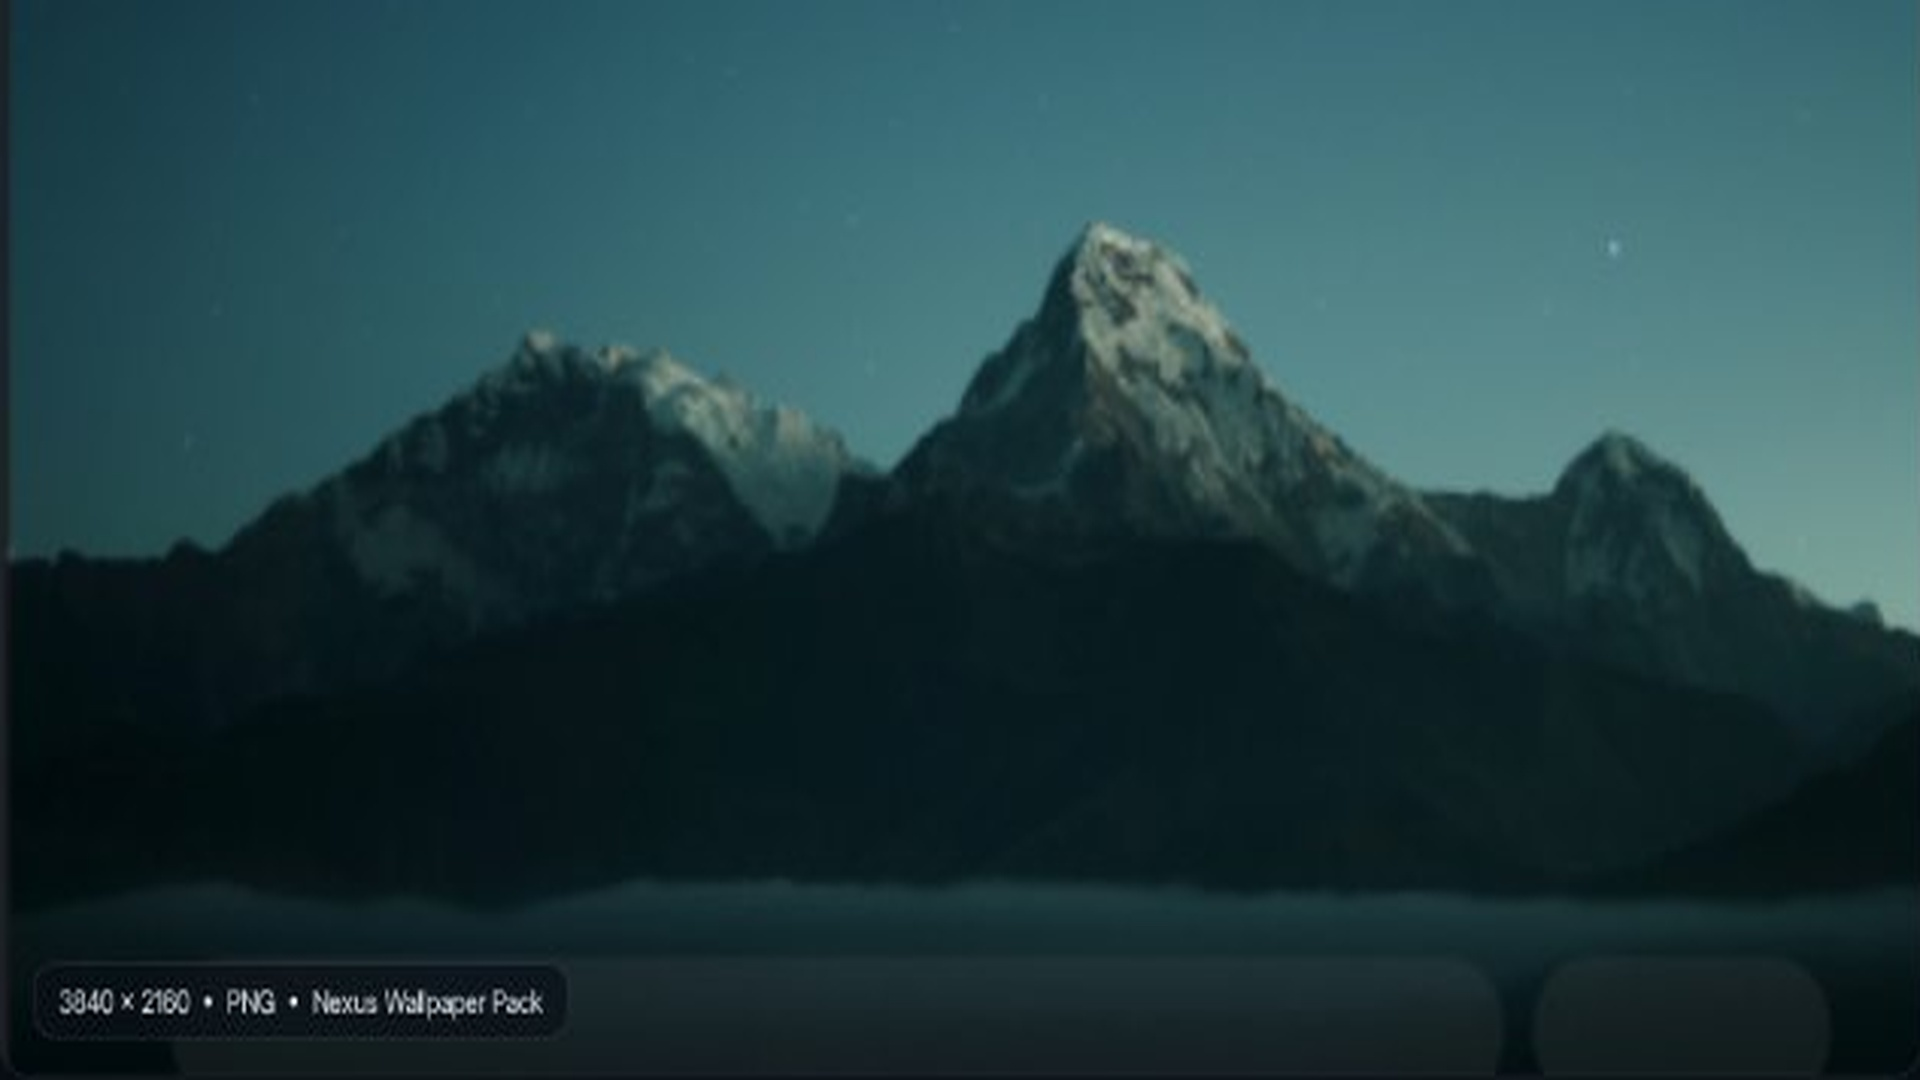
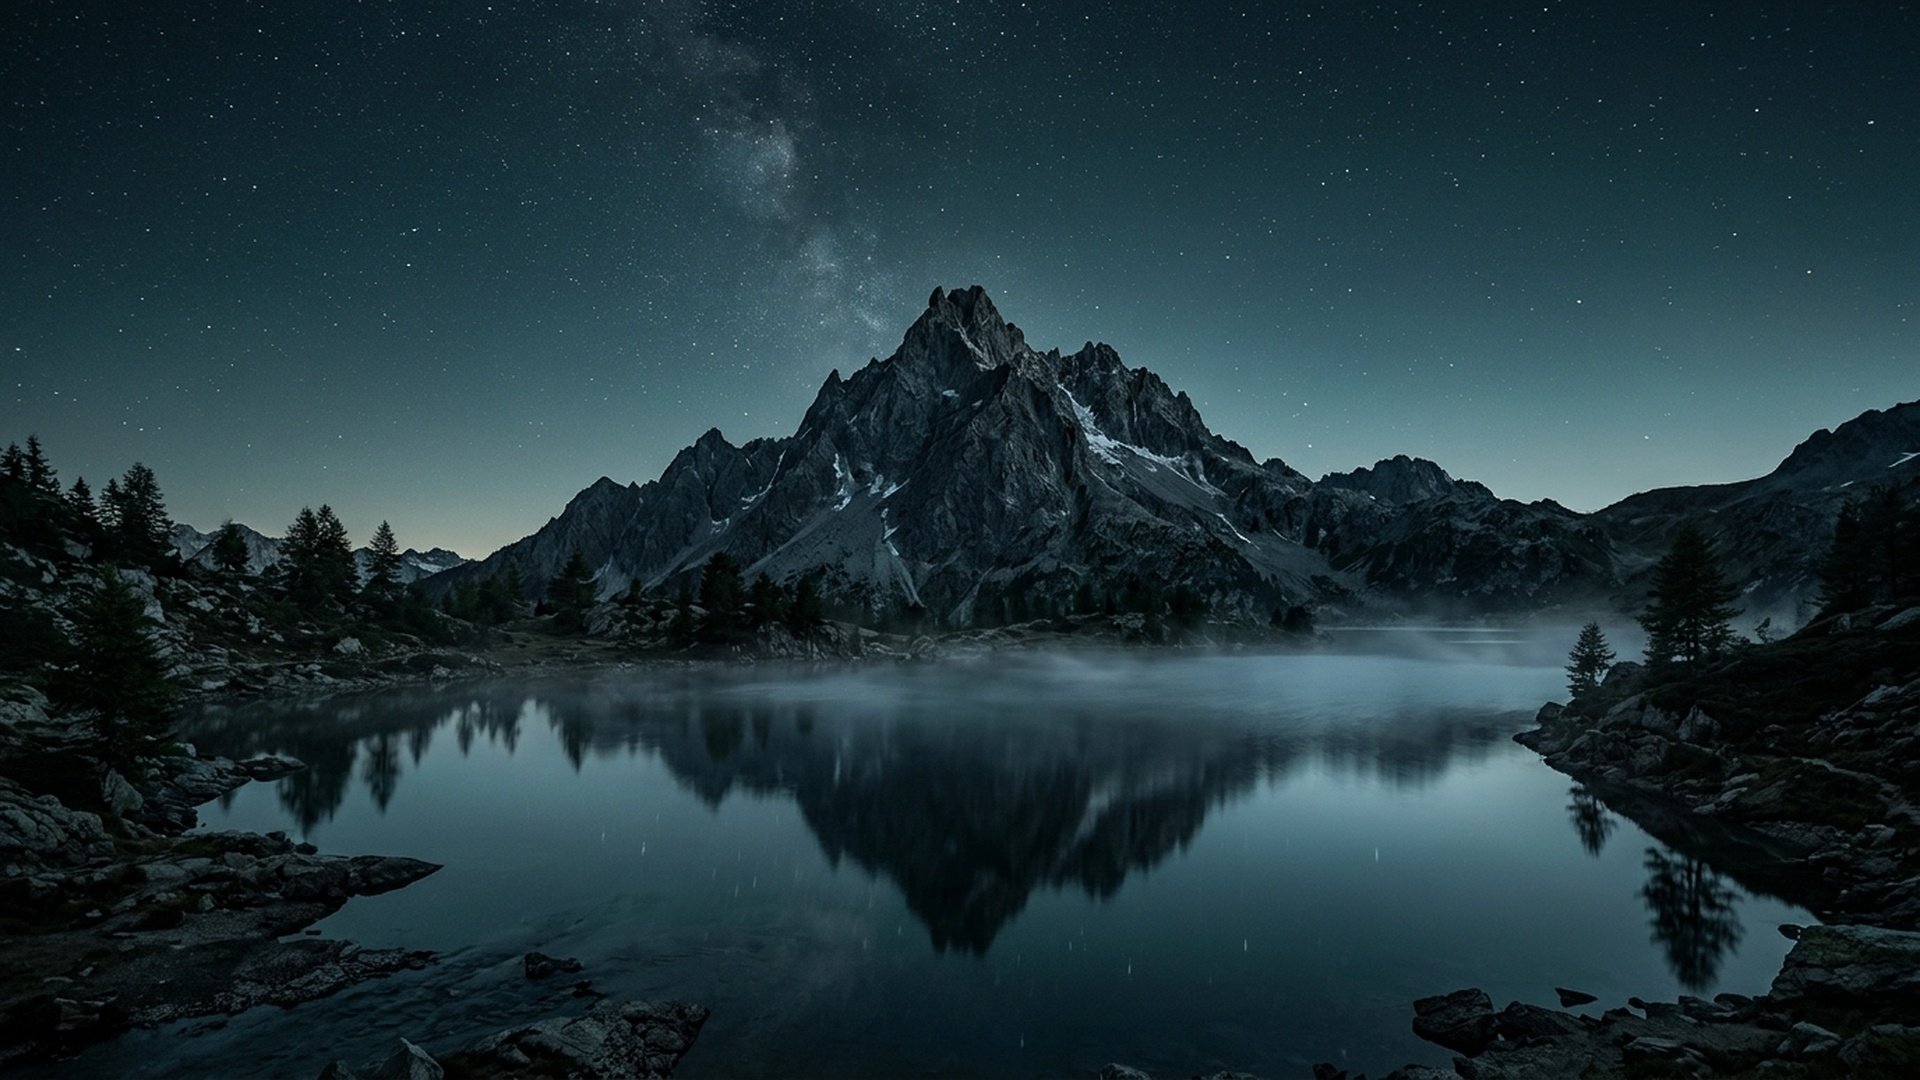
Use clean alpine night wallpaper, fix icontasks launchers array for Plasma 6, and remove desktop folder clutter

diff --git a/project-config/includes.chroot/usr/share/plasma/shells/org.kde.plasma.desktop/contents/layout.js b/project-config/includes.chroot/usr/share/plasma/shells/org.kde.plasma.desktop/contents/layout.js
@@ -18,14 +18,16 @@ var topPill = new Panel();
 topPill.location = "top";
 topPill.alignment = "center";
 topPill.lengthMode = "fit";
-topPill.height = 32;
+topPill.height = 30;
 topPill.floating = true;
 
 var clock = topPill.addWidget("org.kde.plasma.digitalclock");
 clock.currentConfigGroup = ["Appearance"];
 clock.writeConfig("showDate", "true");
 clock.writeConfig("dateFormat", "custom");
-clock.writeConfig("customDateFormat", "HH:mm • ddd, MMM d");
+clock.writeConfig("customDateFormat", "ddd, MMM d");
+clock.writeConfig("use24hFormat", "2");
+clock.reloadConfig();
 
 // 2. BOTTOM FLOATING DOCK: Centered application bar
 var dock = new Panel();
@@ -40,8 +42,9 @@ var kickoff = dock.addWidget("org.kde.plasma.kickoff");
 kickoff.currentConfigGroup = ["General"];
 kickoff.writeConfig("icon", "distributor-logo");
 kickoff.writeConfig("favoritesPortedToKAstats", "true");
+kickoff.reloadConfig();
 
-// Pinned App Launchers
+// Pinned App Launchers (passed as Array so Plasma 6 QStringList parses each entry)
 var tasks = dock.addWidget("org.kde.plasma.icontasks");
 tasks.currentConfigGroup = ["General"];
 tasks.writeConfig("launchers", [
@@ -51,11 +54,12 @@ tasks.writeConfig("launchers", [
     "applications:org.kde.konsole.desktop",
     "applications:org.kde.kate.desktop",
     "applications:org.kde.kcalc.desktop",
-    "applications:org.kde.plasma.discover.desktop",
+    "applications:org.kde.discover.desktop",
     "applications:org.kde.gwenview.desktop",
     "applications:systemsettings.desktop"
-].join(","));
+]);
 tasks.writeConfig("indicateAudioStreams", "true");
+tasks.reloadConfig();
 
 // Trash Widget inside dock
 dock.addWidget("org.kde.plasma.trash");

diff --git a/project-config/includes.chroot/usr/share/plasma/layout-templates/org.kde.plasma.desktop.defaultPanel/contents/layout.js b/project-config/includes.chroot/usr/share/plasma/layout-templates/org.kde.plasma.desktop.defaultPanel/contents/layout.js
@@ -10,6 +10,7 @@ var kickoff = panel.addWidget("org.kde.plasma.kickoff");
 kickoff.currentConfigGroup = ["General"];
 kickoff.writeConfig("icon", "distributor-logo");
 kickoff.writeConfig("favoritesPortedToKAstats", "true");
+kickoff.reloadConfig();
 
 var tasks = panel.addWidget("org.kde.plasma.icontasks");
 tasks.currentConfigGroup = ["General"];
@@ -20,10 +21,11 @@ tasks.writeConfig("launchers", [
     "applications:org.kde.konsole.desktop",
     "applications:org.kde.kate.desktop",
     "applications:org.kde.kcalc.desktop",
-    "applications:org.kde.plasma.discover.desktop",
+    "applications:org.kde.discover.desktop",
     "applications:org.kde.gwenview.desktop",
     "applications:systemsettings.desktop"
-].join(","));
+]);
 tasks.writeConfig("indicateAudioStreams", "true");
+tasks.reloadConfig();
 
 panel.addWidget("org.kde.plasma.trash");
